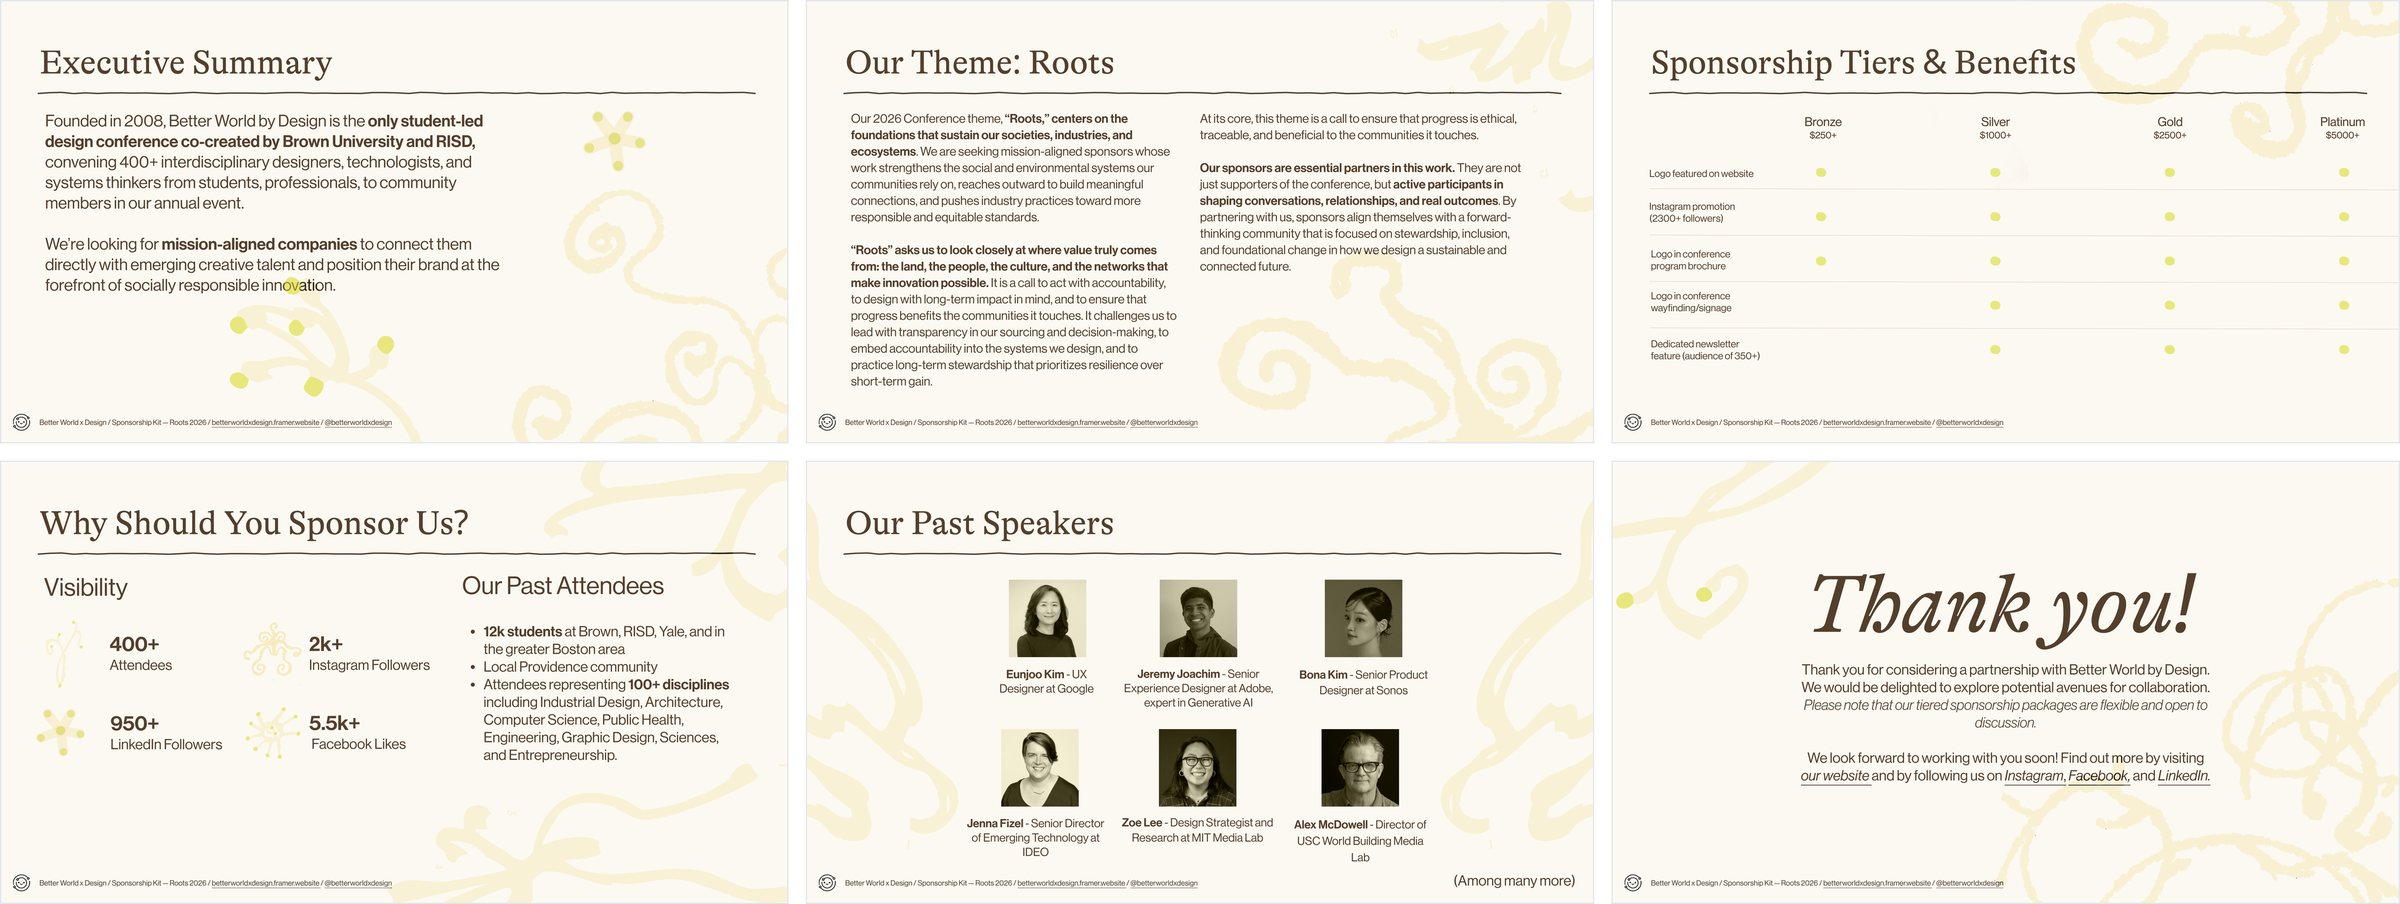
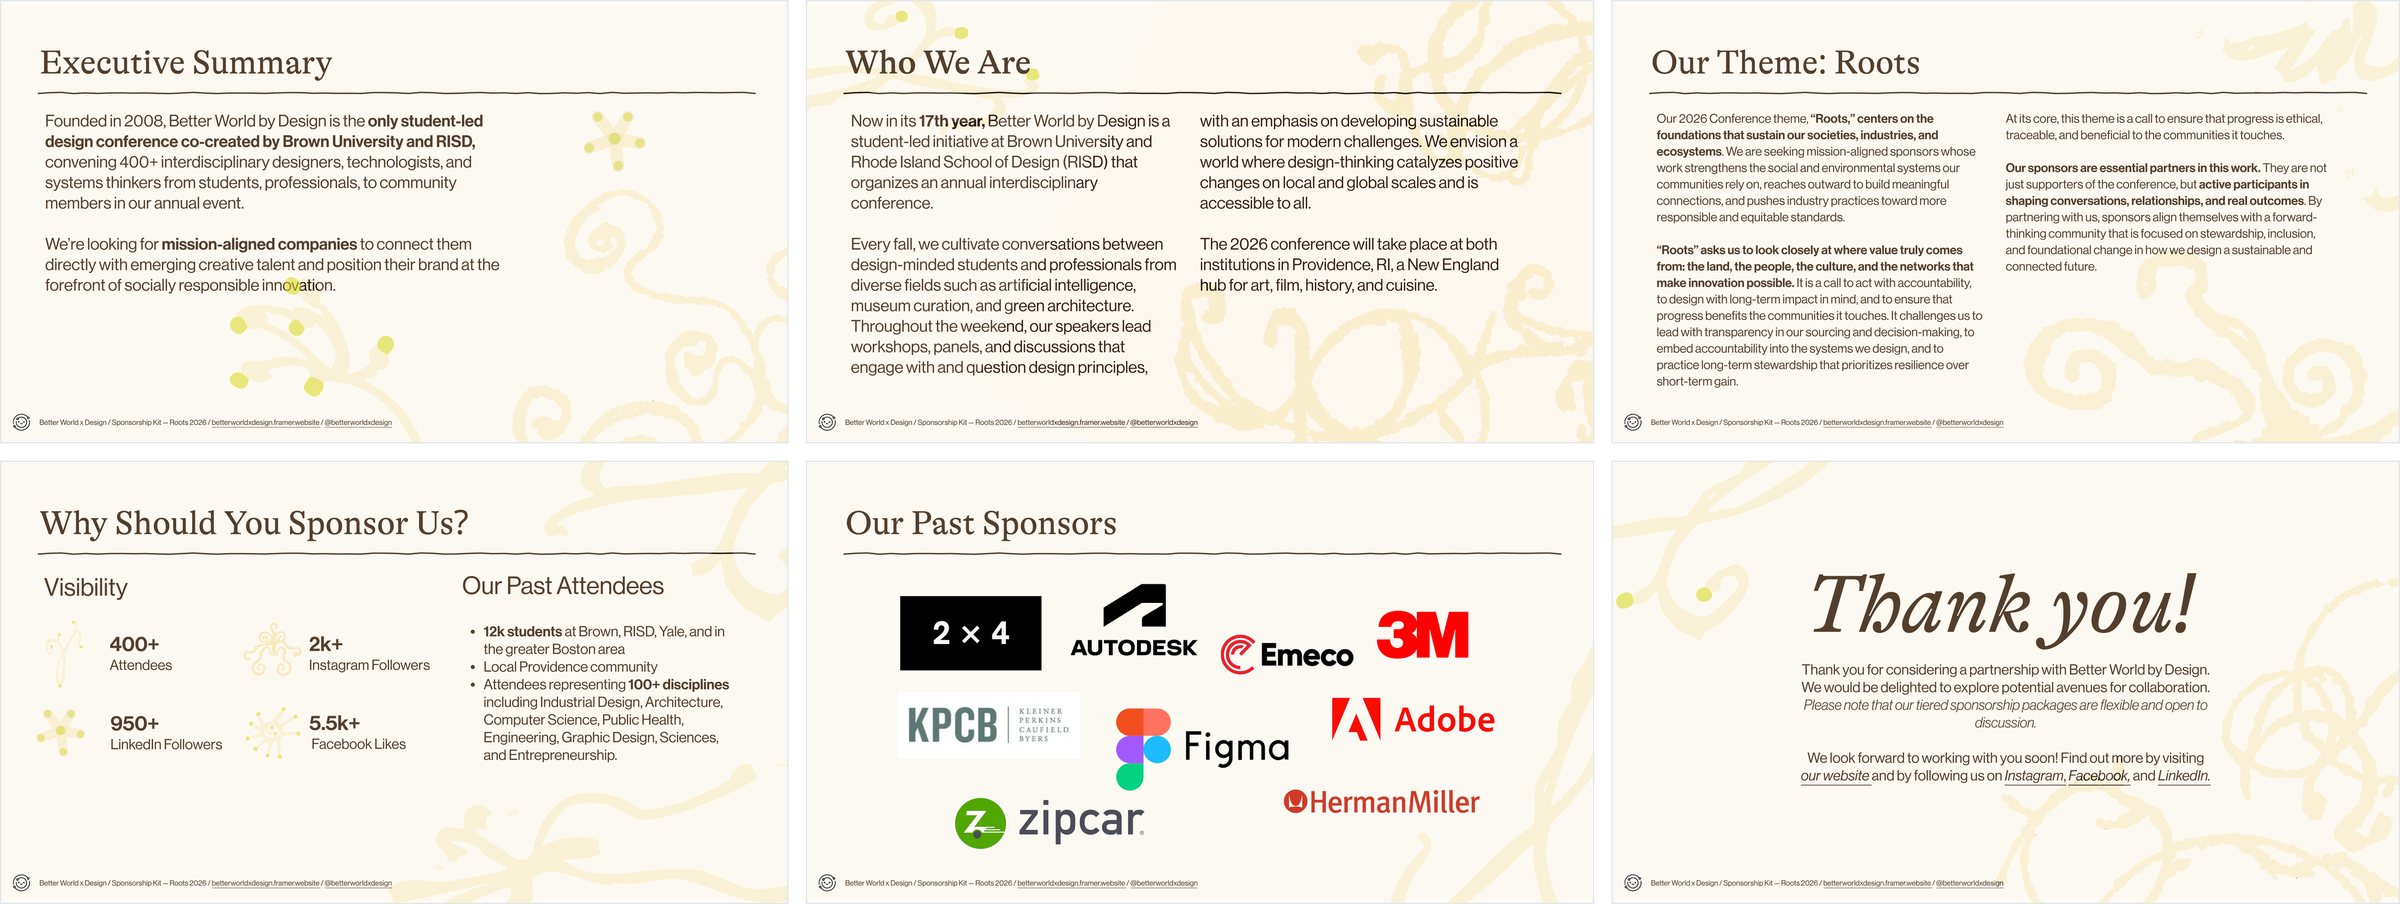
Roots: kit grid shows Who We Are and Our Past Sponsors, in deck order

diff --git a/bwxd-roots.html b/bwxd-roots.html
@@ -41,7 +41,7 @@
       <img class="shot" src="img/bwxd-laptop-kit.jpg" alt="Roots sponsorship kit" loading="lazy" width="2400" height="1800" style="--r:1.3333">
     </div>
     <div class="fit-row">
-      <img class="shot" src="img/bwxd-kit.jpg" alt="Sponsorship kit pages" loading="lazy" width="2400" height="904" style="--r:2.6549">
+      <img class="shot" src="img/bwxd-kit.jpg?v=2" alt="Sponsorship kit pages" loading="lazy" width="2400" height="904" style="--r:2.6549">
     </div>
     <div class="fit-row">
       <img class="shot" src="img/bwxd-sticker.jpg" alt="Roots sticker sheet" loading="lazy" width="2400" height="1600" style="--r:1.5000">
